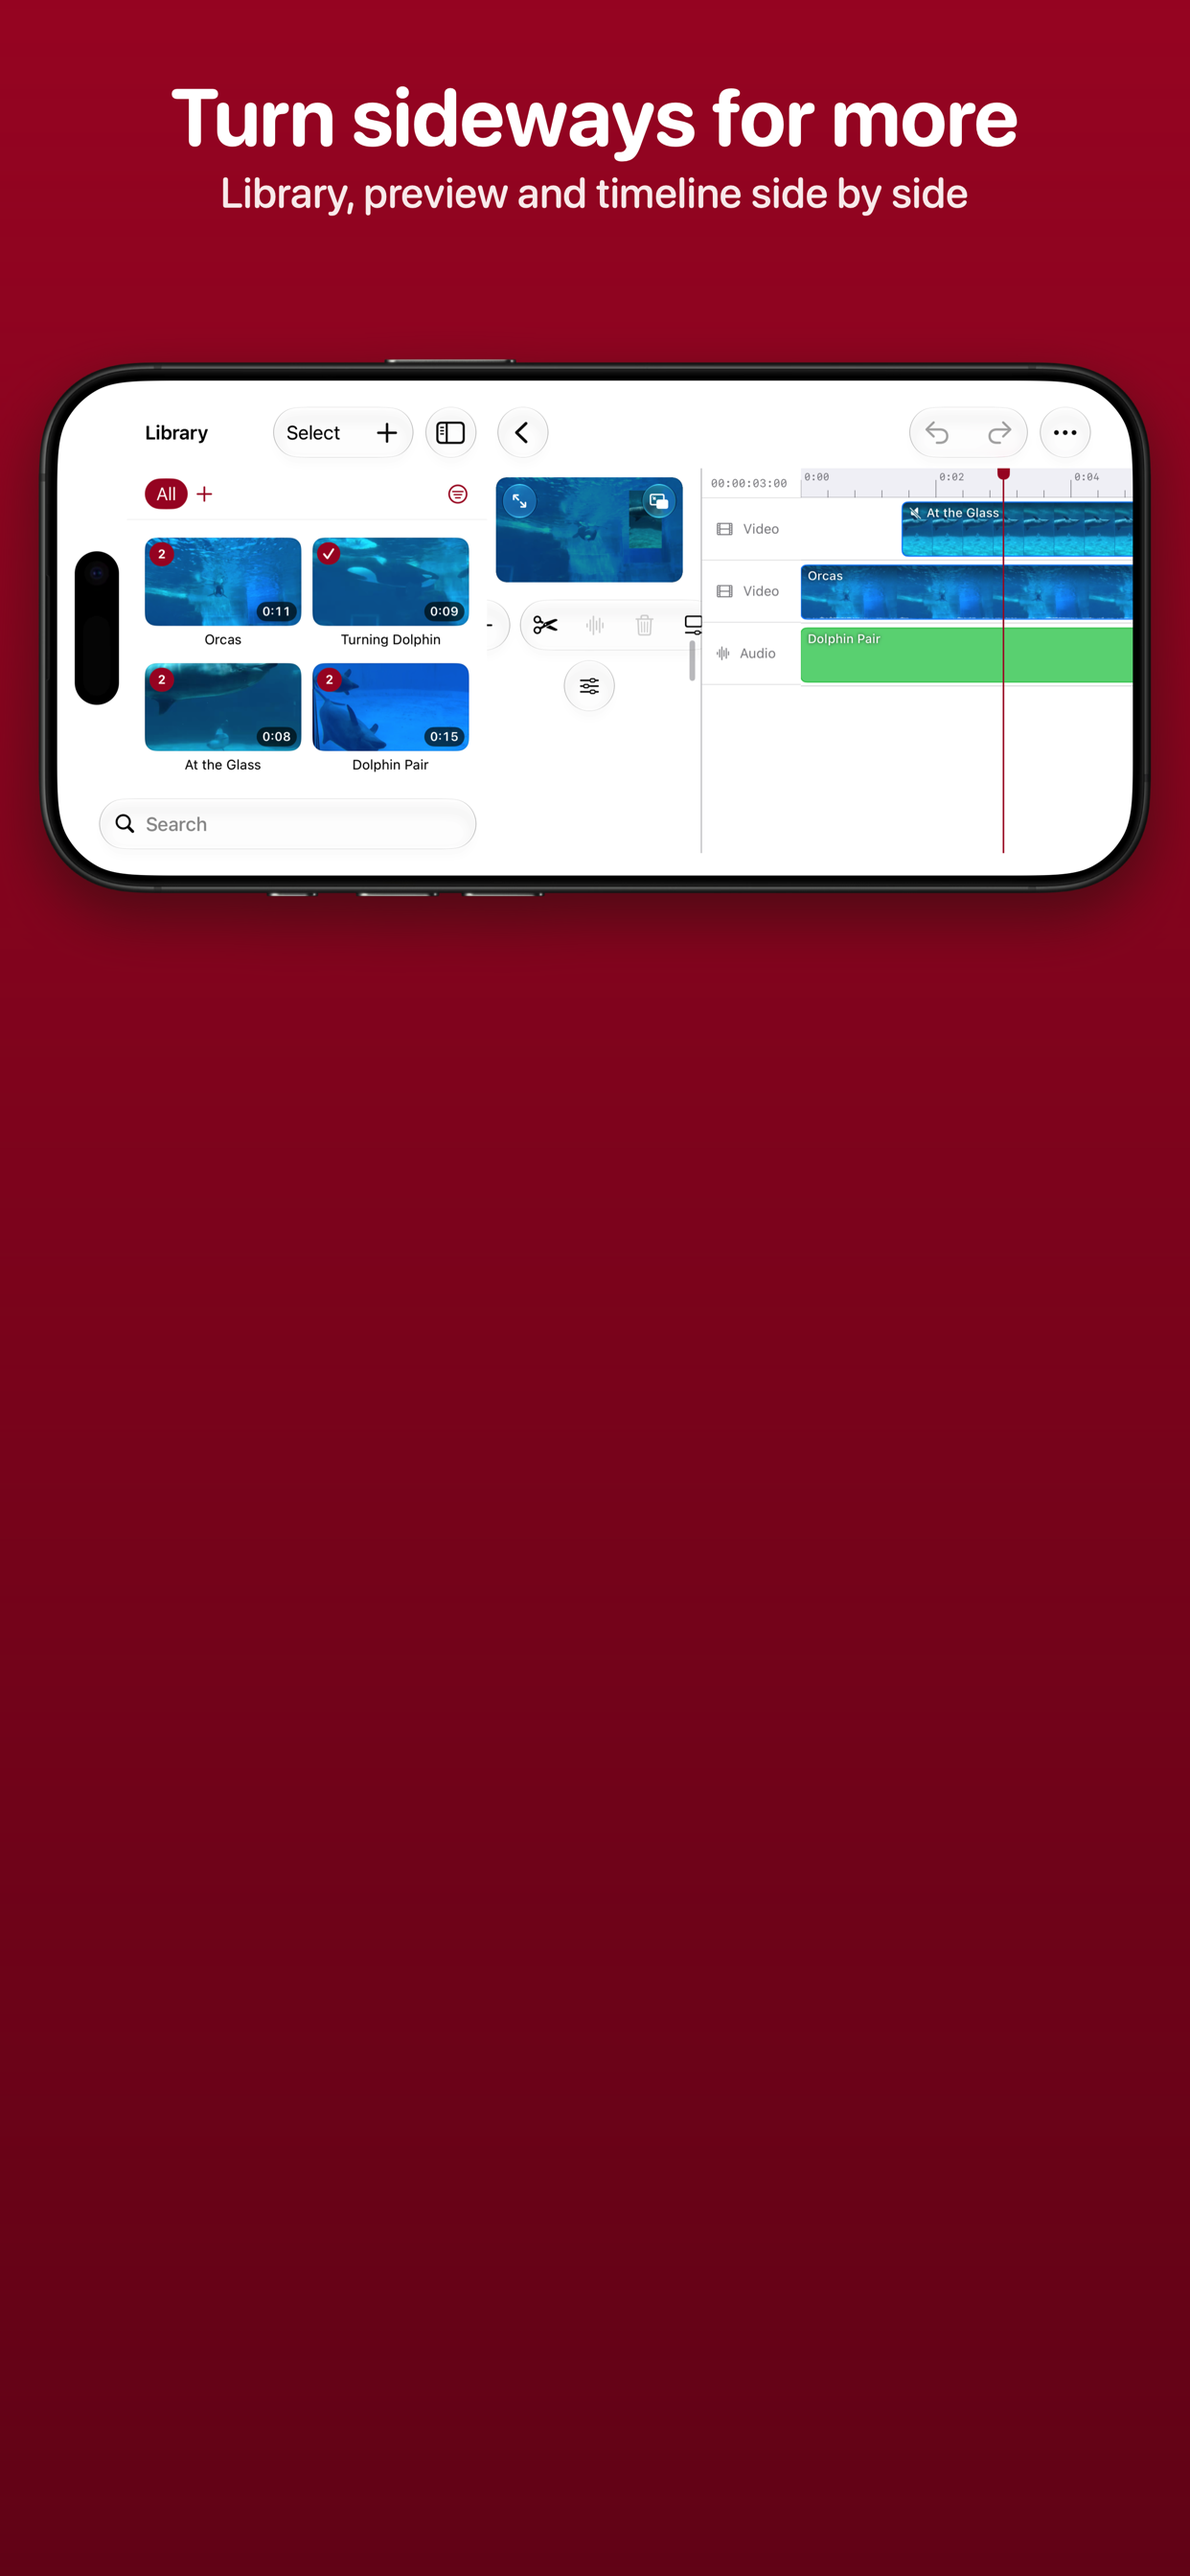
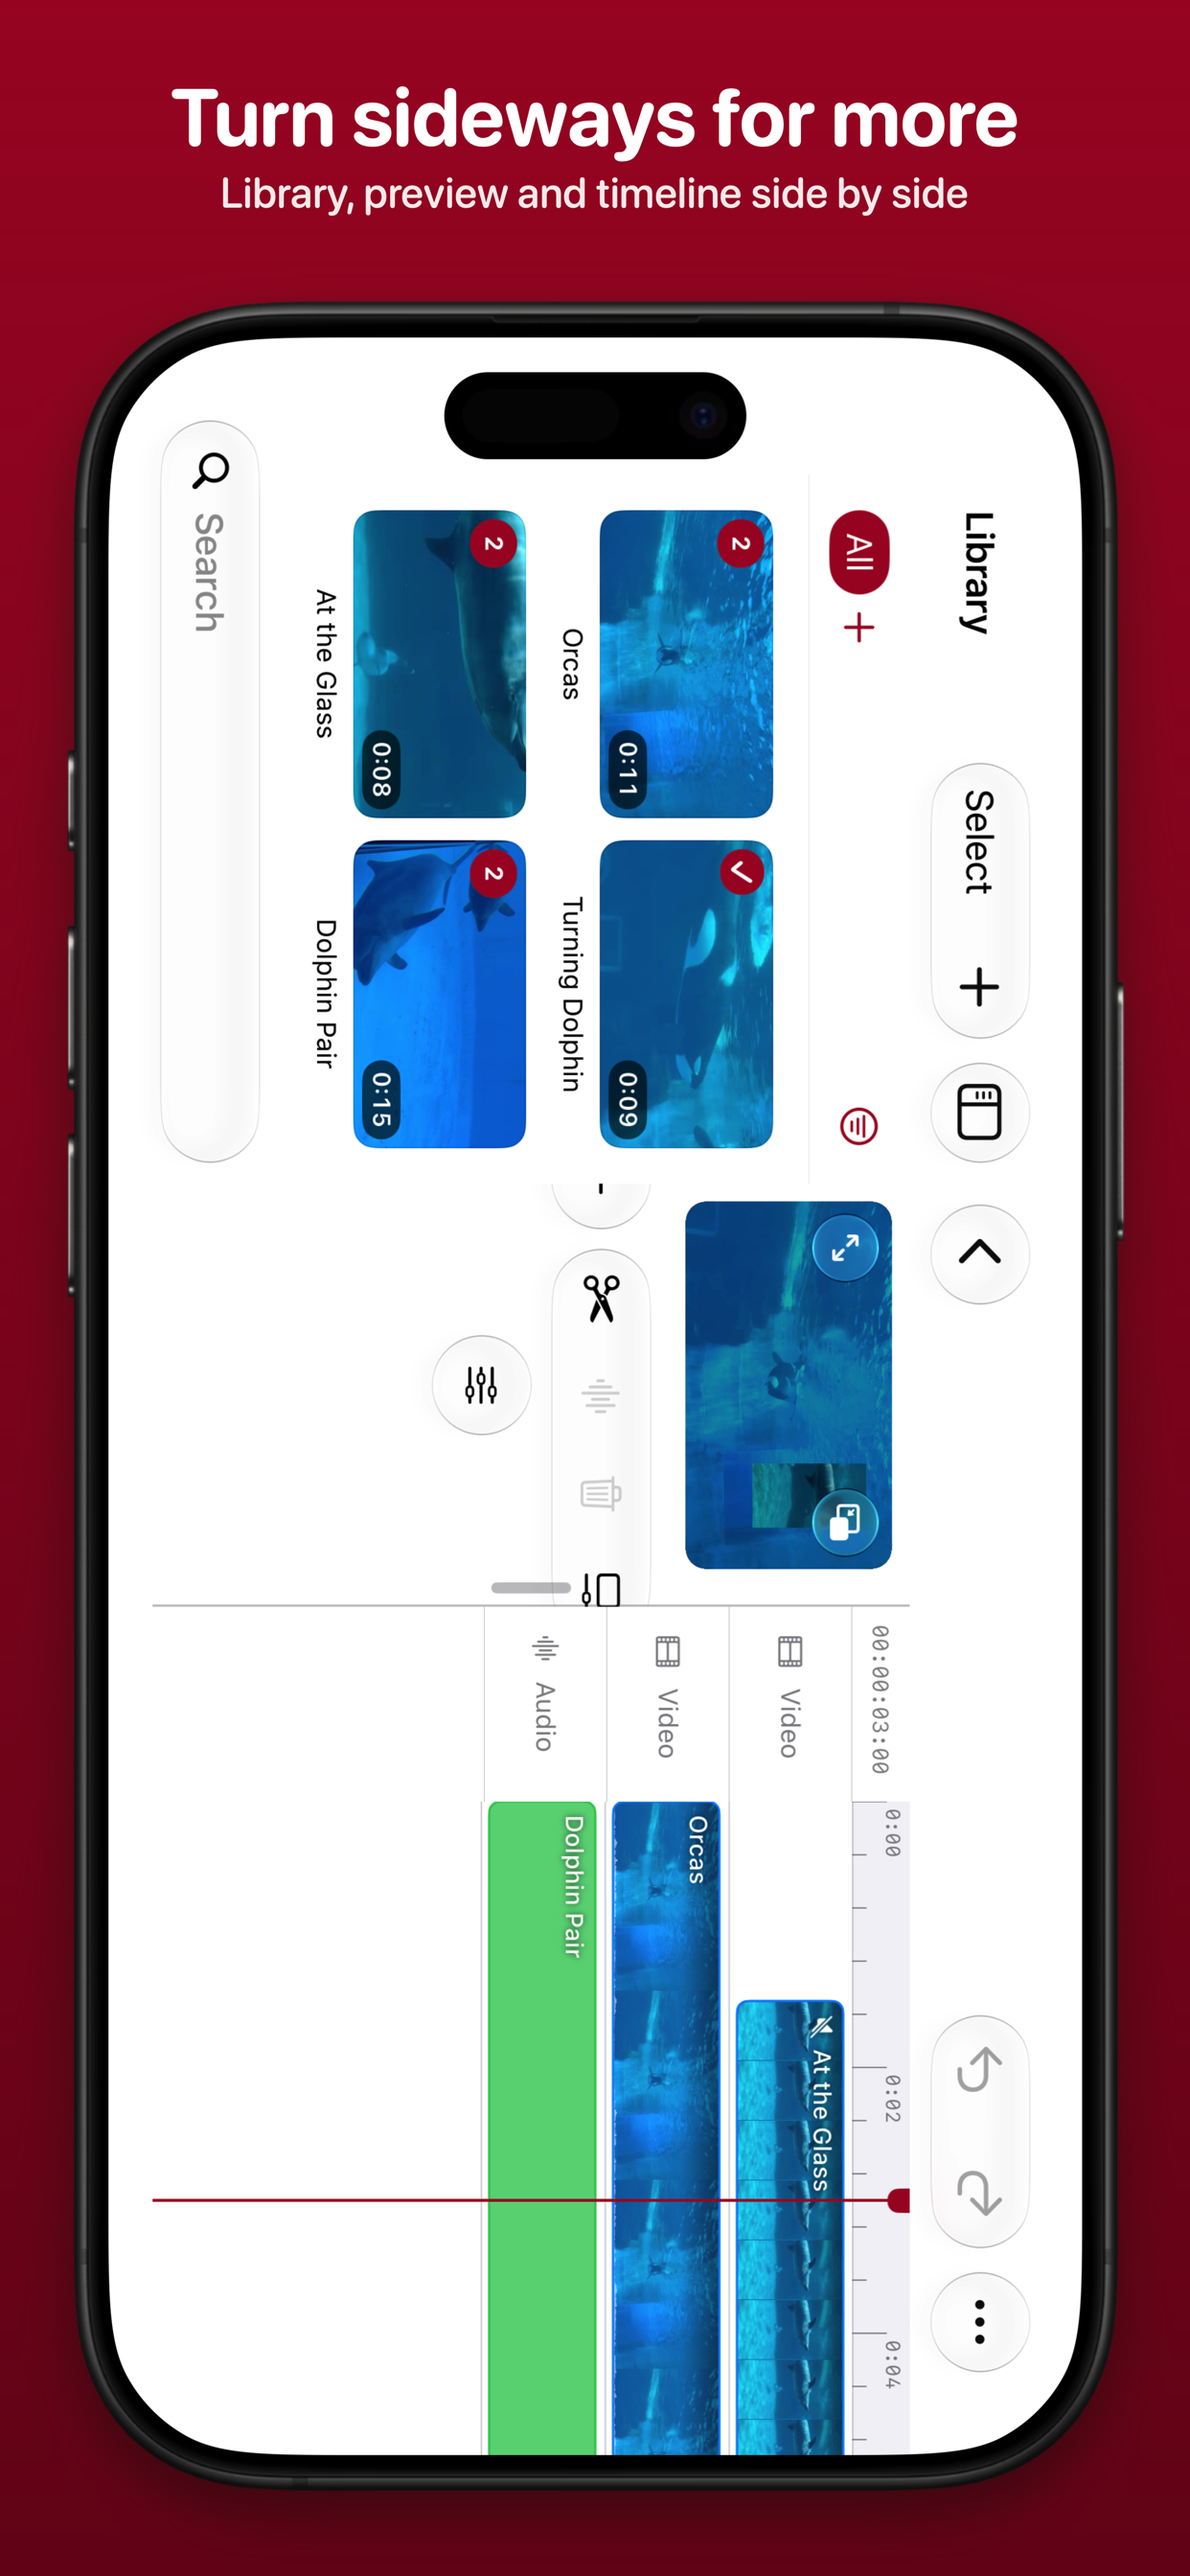
Show the iPhone held sideways upright and full size, with its capture turned in the frame

diff --git a/Assets/App Store/compose.swift b/Assets/App Store/compose.swift
@@ -401,37 +401,14 @@ func drawiPad(raw: NSImage, in rect: NSRect) {
 
 // MARK: - Layouts
 
-/// An iPhone held upright fills what is left below a band that holds the
-/// text. One held sideways is turned across the canvas, under the text.
+/// The iPhone fills what is left below a band that holds the text, upright.
+/// A capture taken sideways is turned a quarter to fit it, as the phone would
+/// be held, so it shows as large as an upright one.
 func drawiPhone(copy: Copy, text: TextSet, band: CGFloat, raw: NSImage, canvasSize: NSSize) {
     let s = Device.iPhone.scale
     let rawCG = cgImage(of: raw)
-    let isLandscape = rawCG.width > rawCG.height
-    let device = framediPhone(raw: isLandscape ? turnedClockwise(rawCG) : rawCG)
+    let device = framediPhone(raw: rawCG.width > rawCG.height ? turnedClockwise(rawCG) : rawCG)
     let aspect = hardwarePixel.width / hardwarePixel.height
-
-    if isLandscape {
-        // Turned, the device is as wide as the margins allow, under the text.
-        let deviceWidth = canvasSize.width - 80 * s
-        let deviceHeight = deviceWidth * aspect
-        let textBottom = canvasSize.height - band
-        text.draw(copy, between: canvasSize.height, and: textBottom, canvasWidth: canvasSize.width)
-        let rect = NSRect(
-            x: ((canvasSize.width - deviceWidth) / 2).rounded(),
-            y: (textBottom - 60 * s - deviceHeight).rounded(),
-            width: deviceWidth, height: deviceHeight
-        )
-        withShadow(radius: 60, offset: 24, opacity: 0.35) {
-            let transform = NSAffineTransform()
-            // About the device's centre, a quarter anticlockwise, which
-            // undoes the turn the capture was given to fit the frame.
-            transform.translateX(by: rect.midX, yBy: rect.midY)
-            transform.rotate(byDegrees: 90)
-            transform.concat()
-            device.draw(in: NSRect(x: -rect.height / 2, y: -rect.width / 2, width: rect.height, height: rect.width))
-        }
-        return
-    }
 
     let deviceTop = canvasSize.height - band
     var deviceSize = NSSize(width: (deviceTop - 88 * s) * aspect, height: deviceTop - 88 * s)
